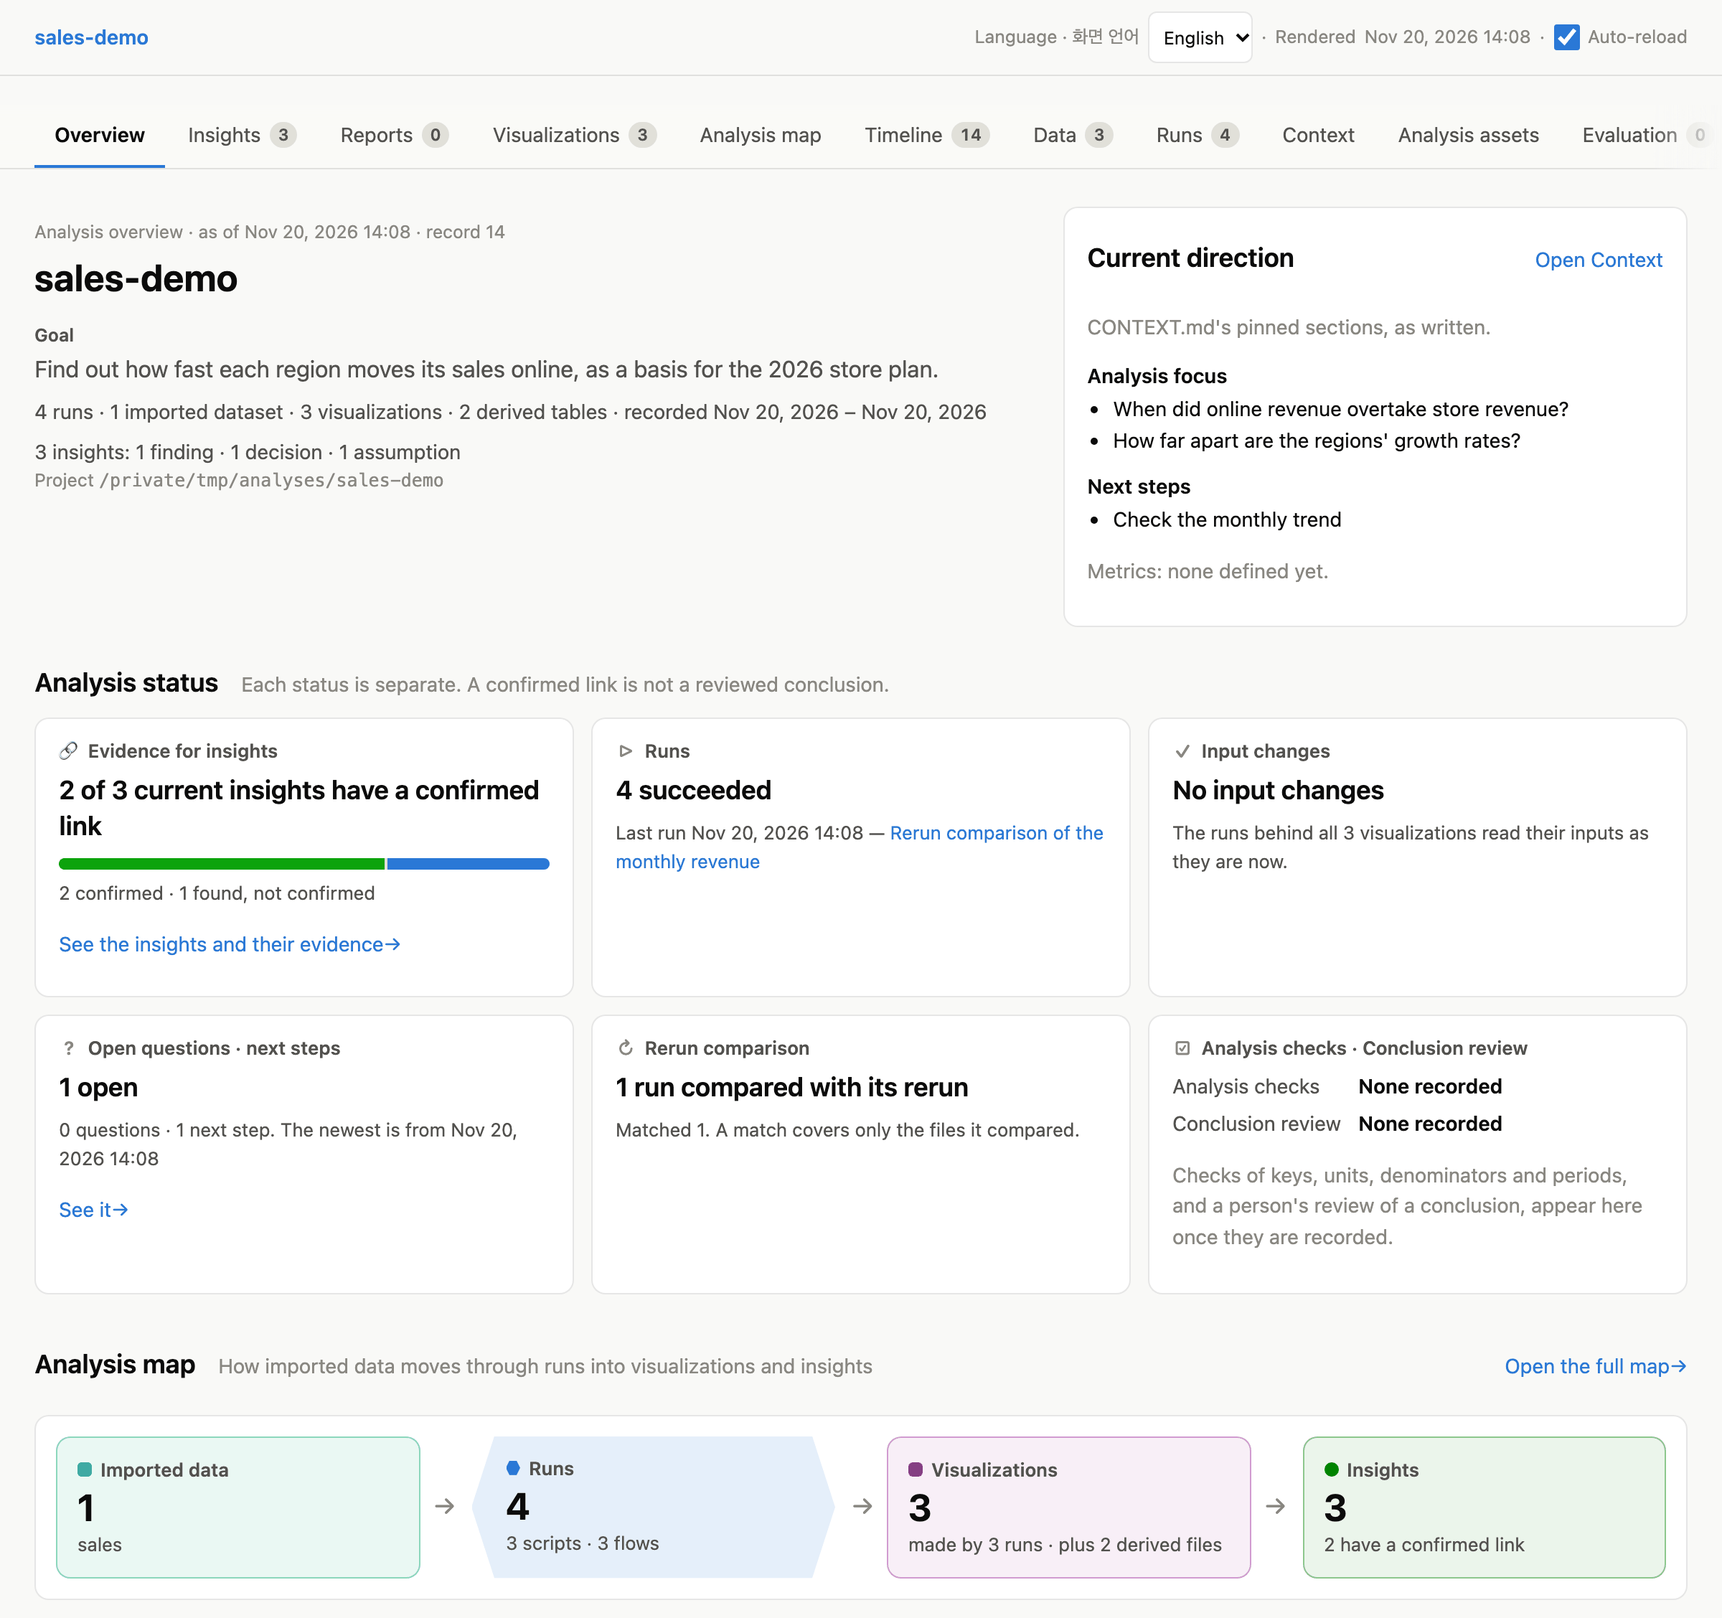
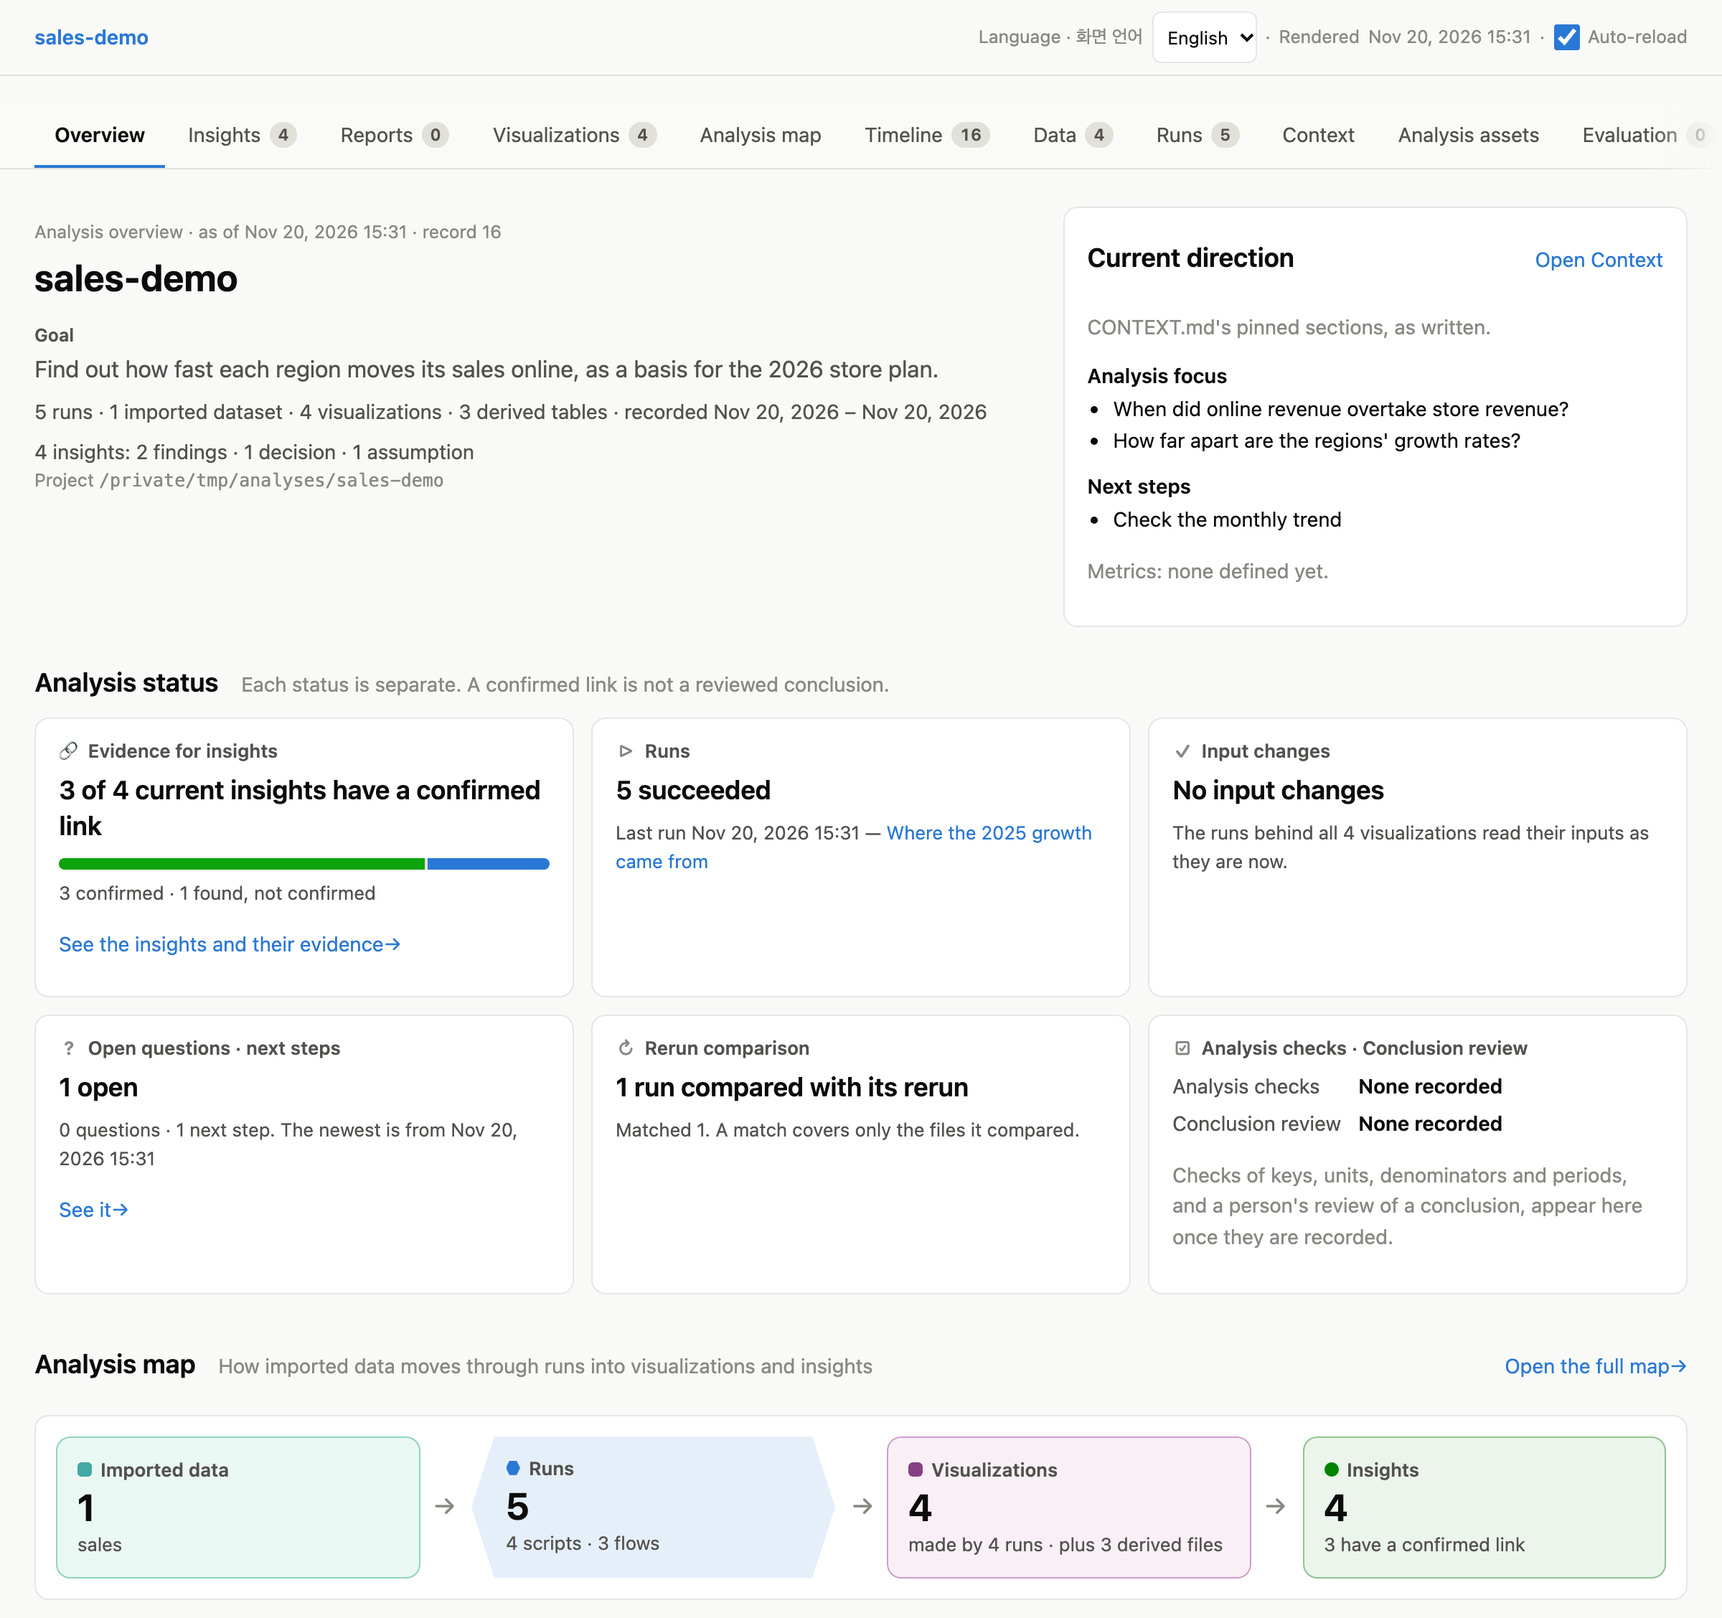
docs(readme): 상단의 제품 비전, 출처 추적 그래프와 분석 지도, aelix 로고 (#209)
소유자 요청(2026-11-20, 대화)을 반영했다.

- 상단에 제품의 방향을 밝힌다: 노트북(.ipynb)과 BI 도구를 넘어선 에이전트 시대의 분석
  패러다임, 사람과 에이전트가 같은 기록을 읽고 써서 같은 인식에서 일하고, 분석 프로젝트가
  세션·모델·사람을 넘어 이어진다는 것.
- 근거가 이어진 모습을 보이는 그림 두 장(영어·한국어 UI 각각): 한 발견의 출처 추적 그래프
  (발견 → 실행 → 파생 표 → 실행 → 가져온 데이터, 1440px 폭에서 잘리지 않게)와 분석 지도.
  출처 그래프를 첫 그림으로 두고, "할 수 있는 것"의 첫 항목에 분석 지도를 둔다.
- 화면은 `analytics demo`에 스크립트 하나(03이 쓴 region_growth를 읽고 발견을 기록)를
  더한 프로젝트에서 모두 다시 찍었다. README가 그렇다고 밝힌다. 타임라인은 행 경계에서 자른다.
- aelix 로고: aelix-ai c51e283의 lockup-stacked.svg를 360px PNG로 그렸다. BRAND.md는
  배경을 모르는 README·PyPI에 이 stacked 로고를 쓰고 래스터는 SVG에서 다시 만들라고 한다.
- CHANGELOG 0.32.1의 #209 항목을 이에 맞췄다.

diff --git a/README.ko.md b/README.ko.md
@@ -1,22 +1,35 @@
+<div align="center">
+
+![Aelix](docs/images/aelix-lockup.png)
+
 # Aelix Analytics
 
-**근거가 남는 데이터 분석. 사람과 AI 에이전트가 같은 분석을 확인하고, 이어 가고, 공유합니다.**
+**에이전트 시대의 새로운 데이터 분석 방식.**
+
+사람과 에이전트가 하나의 분석 프로젝트에서 같은 그림을 보며 일하고, 모든 단계가 근거로 이어진 채
+분석을 이어 갑니다.
 
 [English](README.md) · 한국어 · [5분 시작](#5분-시작)
 
-AI 에이전트와 한 분석은 대화가 끝나면 흩어지기 쉽습니다. 차트는 남아도 어떤 코드가 그렸는지, 어떤 데이터를 읽었는지,
-왜 분석의 방향이 바뀌었는지는 남지 않습니다. Aelix Analytics는 그것을 프로젝트 안에 남깁니다.
+</div>
 
-- **모든 차트에서 근거로 갑니다.** 그 차트를 만든 실행, 실행된 그대로의 코드, 실행이 감지한 입력(sha256), 첨부했다면 그린 데이터로
-  이어집니다.
-- **발견·결정·질문은 근거를 가리킬 수 있습니다.** 그 근거인 실행·차트·데이터셋을 정확한 버전으로 가리킵니다.
-- **목표·관심 지표·다음 할 일은 평범한 파일에 있습니다.** aelix의 새 세션은 그것에서 시작하고, 다른 사람이나 다른 에이전트도 같은
-  파일을 읽어 이어 갑니다.
+노트북(`.ipynb`)과 BI 도구는 사람이 화면 앞에서 하는 분석을 위해 만들어졌습니다. 노트북은 코드 옆에 출력을 남기지만,
+어떤 실행이 어떤 차트를 만들었는지, 왜 분석의 방향이 바뀌었는지는 남기지 않습니다. BI 대시보드는 완성된 숫자를 보여 주지만
+거기까지 온 과정은 보여 주지 않습니다. AI 에이전트가 분석하면 그 판단의 흐름은 세션과 함께 끝나는 대화 속에만 있습니다.
 
-분석은 지금처럼 Python(DuckDB, Polars, matplotlib, plotly)으로 씁니다. kit은 실행마다 기록을 남기고, 둘러보고 다시 만들고 공유할
-수 있는 정적 HTML **Workspace**를 만듭니다.
+Aelix Analytics는 다른 분석 패러다임을 제안합니다. 분석은 **계속 이어지는 프로젝트**입니다. 목표, 지표와 질문, 데이터,
+코드의 모든 실행, 모든 차트, 모든 발견과 결정이 자기가 어디서 왔는지 가리키는 기록으로 남습니다. 사람과 에이전트가 같은
+기록을 읽고 쓰므로, 둘은 분석에 대해 같은 인식에서 일합니다. 무엇을 알았고, 무엇이 그 근거이며, 다음에 무엇을 할지입니다.
+새 세션도, 다른 모델도, 다른 사람도 처음부터 다시 하지 않고 거기서 이어 갑니다.
 
-![데모 프로젝트의 Workspace 개요: 목표, CONTEXT.md의 현재 방향, 분석 상태, 가져온 데이터에서 실행·시각화를 거쳐 인사이트로 이어지는 분석 지도](docs/images/workspace-overview-ko.png)
+![Workspace에서 본 한 발견의 출처: 발견은 그것을 계산한 실행을 인용하고, 그 실행은 다른 실행이 가져온 데이터에서 만든 표를 읽었습니다. 실행마다 만든 차트가 옆에 있고, 오른쪽 패널은 확인한 것(확정 인용, 성공한 실행, 코드 스냅샷, 그대로인 파일)을 보입니다](docs/images/provenance-graph-ko.png)
+
+- **근거가 이어져 있습니다.** 발견에서 그 근거인 실행, 실행된 그대로의 코드, 그 실행이 읽은 데이터, 그 데이터를 쓴 실행을 거쳐
+  가져온 파일까지 따라갑니다. 위 그래프가 그 길입니다.
+- **같은 그림을 봅니다.** 목표·관심 지표·다음 할 일은 평범한 파일에 있습니다. aelix에서는 에이전트가 매 프롬프트에 그것을 받고,
+  사람은 Workspace의 첫 화면에서 봅니다.
+- **분석은 지금처럼 Python으로.** DuckDB, Polars, matplotlib, plotly로 씁니다. kit은 실행마다 기록을 남기고, 둘러보고 다시
+  만들고 공유할 수 있는 정적 HTML **Workspace**를 만듭니다.
 
 > **베타입니다.** 샌드박스가 아닙니다. 스크립트는 사용자의 권한으로 돌고,
 > [aelix](https://github.com/handochan/aelix-ai)에서 에이전트의 `analytics_run`은 묻지 않고 코드를 실행합니다.
@@ -24,11 +37,26 @@ AI 에이전트와 한 분석은 대화가 끝나면 흩어지기 쉽습니다. 
 
 ## 할 수 있는 것
 
+그림은 [5분 시작](#5분-시작)의 데모 프로젝트에 스크립트 하나를 더한 것입니다. 그 스크립트는 다른 스크립트가 쓴 표를 읽고
+발견을 기록합니다.
+
+**근거가 이어져 있습니다.** 분석 지도는 작업의 흐름을 보입니다. 상자 하나는 스크립트와 그 실행들이고, 화살표는 한 스크립트의
+실행이 쓰고 다른 스크립트의 실행이 읽은 파일입니다(경로와 바이트로 맞춤). 발견·차트·파일 어디서든 출처 추적(위 그림)이 같은
+연결을 따라 가져온 데이터까지 거슬러 올라가고, 무엇을 확인할 수 있었는지 말합니다. 둘 다 행 단위 계보는 아닙니다.
+
+![데모 프로젝트의 분석 지도: 스크립트와 그 실행의 흐름 세 개와 각각의 시각화·인사이트. 셋째 흐름에서 03_region_growth.py가 region_growth를 쓰고 04_growth_contribution.py가 그것을 읽습니다](docs/images/workspace-analysis-map-ko.png)
+
+**사람과 에이전트가 같은 그림을 봅니다.** 개요는 `CONTEXT.md`의 목표와 현재 방향에서 시작해 근거의 상태를 보입니다. 확정
+연결이 있는 인사이트의 수, 실행의 결과, 입력 변경, 재실행 비교, 열린 질문, 분석 검사와 결론 검토를 서로 섞지 않고 따로
+보입니다.
+
+![데모 프로젝트의 Workspace 개요: 목표, CONTEXT.md의 현재 방향, 분석 상태, 가져온 데이터에서 실행·시각화를 거쳐 인사이트로 이어지는 요약 지도](docs/images/workspace-overview-ko.png)
+
 **차트를 거슬러 올라갑니다.** 차트는 모두 한 *실행*(run)에 속합니다. run은 스크립트를 한 번 실행한 기록으로, 실행된 그대로의
 코드 스냅샷, 감지한 입력과 그 sha256, 출력, 로그, 환경을 담습니다. 차트 카드에서 코드(실행이 알면 그 차트를 기록한 줄), 입력(지금도
 같은 바이트인지, 그 뒤에 바뀌었는지), 차트에 첨부한 데이터로 갑니다. 첨부한 데이터가 없으면 기록하지 않았다고 보입니다.
 
-![Workspace의 차트 카드 세 개. 카드마다 차트를 기록한 코드의 줄, 입력 데이터와 변경 여부, 첨부한 플롯 데이터(첫 카드는 기록하지 않았다고 보임), 그 실행이 있습니다](docs/images/workspace-visualizations-ko.png)
+![Workspace의 차트 카드 세 개. 카드마다 차트를 기록한 코드의 줄, 입력 데이터와 변경 여부, 첨부한 플롯 데이터(둘째 카드는 기록하지 않았다고 보임), 그 실행이 있습니다](docs/images/workspace-visualizations-ko.png)
 
 ![실행 페이지: 차트를 기록한 줄이 강조된 코드 스냅샷, 기록한 sha256과 지금의 상태가 "같음"인 입력, 그 실행이 만든 출력](docs/images/run-code-and-inputs-ko.png)
 
@@ -37,7 +65,7 @@ AI 에이전트와 한 분석은 대화가 끝나면 흩어지기 쉽습니다. 
 무엇을 언제 알았고 왜 판단이 바뀌었는지 따라갈 수 있습니다. aelix에서는 지금의 맥락이 정해진 분량 안에서 섹션 단위로 매
 프롬프트에 들어갑니다. aelix 밖의 사람과 다른 에이전트는 같은 파일을 읽습니다.
 
-![Workspace의 타임라인: 실행과 맥락 갱신, 그 근거인 실행에 연결된 결정과 발견, 데이터셋에 연결된 가정, 발견으로 해결된 질문](docs/images/workspace-timeline-ko.png)
+![Workspace의 타임라인: 실행과 맥락 갱신, 그 근거인 실행에 연결된 발견과 결정, 열린 다음 할 일, 데이터셋에 연결된 가정, 앞선 질문을 해결한 발견](docs/images/workspace-timeline-ko.png)
 
 **사람과 에이전트가 같은 프로젝트에서 일합니다.** `analytics` 명령, Python SDK, aelix 도구가 같은 기록을 쓰고, 기록마다 누가
 어떻게 남겼는지가 적힙니다. 모델 없이 직접 분석하다가 에이전트에게 넘기고, 다시 이어받을 수 있습니다.

diff --git a/README.md b/README.md
@@ -1,24 +1,37 @@
+<div align="center">
+
+![Aelix](docs/images/aelix-lockup.png)
+
 # Aelix Analytics
 
-**Data analysis that keeps its evidence, so people and AI agents can check it, continue it and share it.**
+**A new way of doing data analysis for the age of AI agents.**
+
+People and agents work in one analysis project, share the same picture of it, and carry it forward with
+every step tied to its evidence.
 
 English · [한국어](README.ko.md) · [Quick start](#quick-start)
 
-An analysis done with an AI agent tends to end with the chat: the charts survive, but not which code drew
-them, which data they read, or why the analysis turned the way it did. Aelix Analytics keeps all of that in
-the project itself.
+</div>
 
-- **Every chart leads back to its evidence:** the run that made it, the code exactly as it ran, the inputs
-  the run detected (with their sha256), and the plotted data when it was attached.
-- **Findings, decisions and questions can cite their evidence:** the runs, charts or datasets behind them,
-  at the exact version.
-- **The goal, focus and next steps live in plain files.** A new aelix session starts from them, and any
-  person or other agent can read the same files to pick up the work.
+Notebooks (`.ipynb`) and BI tools were made for a person analyzing at a screen. A notebook keeps code next
+to its output, but not which run made which chart, or why the analysis turned the way it did. A BI
+dashboard shows finished numbers, not how they were reached. When an AI agent does the work, the reasoning
+lives in a chat that ends with the session.
 
-You keep writing ordinary Python with DuckDB, Polars, matplotlib or plotly. The kit records each run and
-builds a static HTML **Workspace** to browse, rebuild and share.
+Aelix Analytics proposes a different paradigm: an analysis is a **project that keeps going**. Its goal,
+metrics and questions, its data, every run of code, every chart, and every finding and decision are kept as
+records that point to where they came from. People and agents read and write the same records, so both work
+from the same understanding of the analysis: what is known, on what evidence, and what to do next. A new
+session, another model or another person picks up from there instead of starting over.
 
-![The Workspace overview of the demo project: the goal, the current direction from CONTEXT.md, the analysis status and a map from imported data through runs and visualizations to insights](docs/images/workspace-overview.png)
+![The provenance of a finding in the Workspace: the finding cites the run that computed it; that run read a table which another run derived from the imported data; each run's chart sits beside it, and the panel lists what was checked: exact citations, succeeded runs, code snapshots and unchanged files](docs/images/provenance-graph.png)
+
+- **Evidence stays connected.** From a finding you follow the run behind it, the code exactly as it ran, the
+  data it read, and the run that wrote that data, back to the imported files, as in the graph above.
+- **One shared picture.** The goal, focus and next steps live in plain files. In aelix the agent gets them
+  with every prompt, and people see them at the top of the Workspace.
+- **Your own Python.** You keep writing ordinary Python with DuckDB, Polars, matplotlib or plotly. The kit
+  records each run and builds a static HTML **Workspace** to browse, rebuild and share.
 
 > **Beta.** This is not a sandbox. Scripts run with your permissions, and in
 > [aelix](https://github.com/handochan/aelix-ai) the agent's `analytics_run` executes code without asking
@@ -26,12 +39,29 @@ builds a static HTML **Workspace** to browse, rebuild and share.
 
 ## What you get
 
+The pictures are the demo project from the [Quick start](#quick-start) with one more script, which reads a
+table another script wrote and records a finding.
+
+**Evidence that stays connected.** The Analysis map shows how the work flows. Each box is a script and its
+runs, and an arrow is a file that a run of one script wrote and a run of another read, matched by path and
+bytes. From any finding, chart or file, the provenance view (above) follows the same links back to the
+imported data and says what it could check. Neither is row-level lineage.
+
+![The Analysis map of the demo project: three flows of scripts and their runs, each with its visualizations and insights; in the third flow, 03_region_growth.py writes region_growth, which 04_growth_contribution.py reads](docs/images/workspace-analysis-map.png)
+
+**One picture of the analysis, for people and agents.** The Overview starts from the goal and the current
+direction in `CONTEXT.md`, then the state of the evidence: how many insights have a confirmed link, how the
+runs went, whether inputs changed, rerun comparisons, open questions, and checks and reviews, each kept
+apart.
+
+![The Workspace overview of the demo project: the goal, the current direction from CONTEXT.md, the analysis status and a summary map from imported data through runs and visualizations to insights](docs/images/workspace-overview.png)
+
 **Charts you can trace.** Each chart belongs to a *run*: one execution of a script, recorded with a snapshot
 of the code as it ran, the inputs it detected and their sha256, the outputs, logs and environment. A chart
 card links to the code (to the line that recorded the chart, when the run knows it), to its inputs (still
 the same bytes, or changed since), and to the data attached to the chart, or says that none was recorded.
 
-![Three chart cards in the Workspace. Each lists its code with the line that recorded the chart, its input data and whether it changed, its attached plot data (the first card says none was recorded), and its run](docs/images/workspace-visualizations.png)
+![Three chart cards in the Workspace. Each lists its code with the line that recorded the chart, its input data and whether it changed, its attached plot data (the second card says none was recorded), and its run](docs/images/workspace-visualizations.png)
 
 ![A run page: the code snapshot with the line that recorded the chart highlighted, the input with its recorded sha256 and "Same" now, and the output it created](docs/images/run-code-and-inputs.png)
 
@@ -41,7 +71,7 @@ questions and to-dos. A later entry can close an earlier question or to-do, so y
 when, and why the analysis changed. In aelix, the agent gets the current context with every prompt, section
 by section within a budget. Outside aelix, people and other agents read the same files.
 
-![The Workspace timeline: runs and context updates, a decision and a finding linked to the runs behind them, an assumption linked to the dataset, and a question resolved by a finding](docs/images/workspace-timeline.png)
+![The Workspace timeline: runs and context updates, findings and a decision linked to the runs behind them, an open next step, an assumption linked to the dataset, and a finding that resolves an earlier question](docs/images/workspace-timeline.png)
 
 **People and agents work on the same project.** The `analytics` command, the Python SDK and the aelix tools
 write the same records, and each record says who made it and how. You can analyze by hand without any
